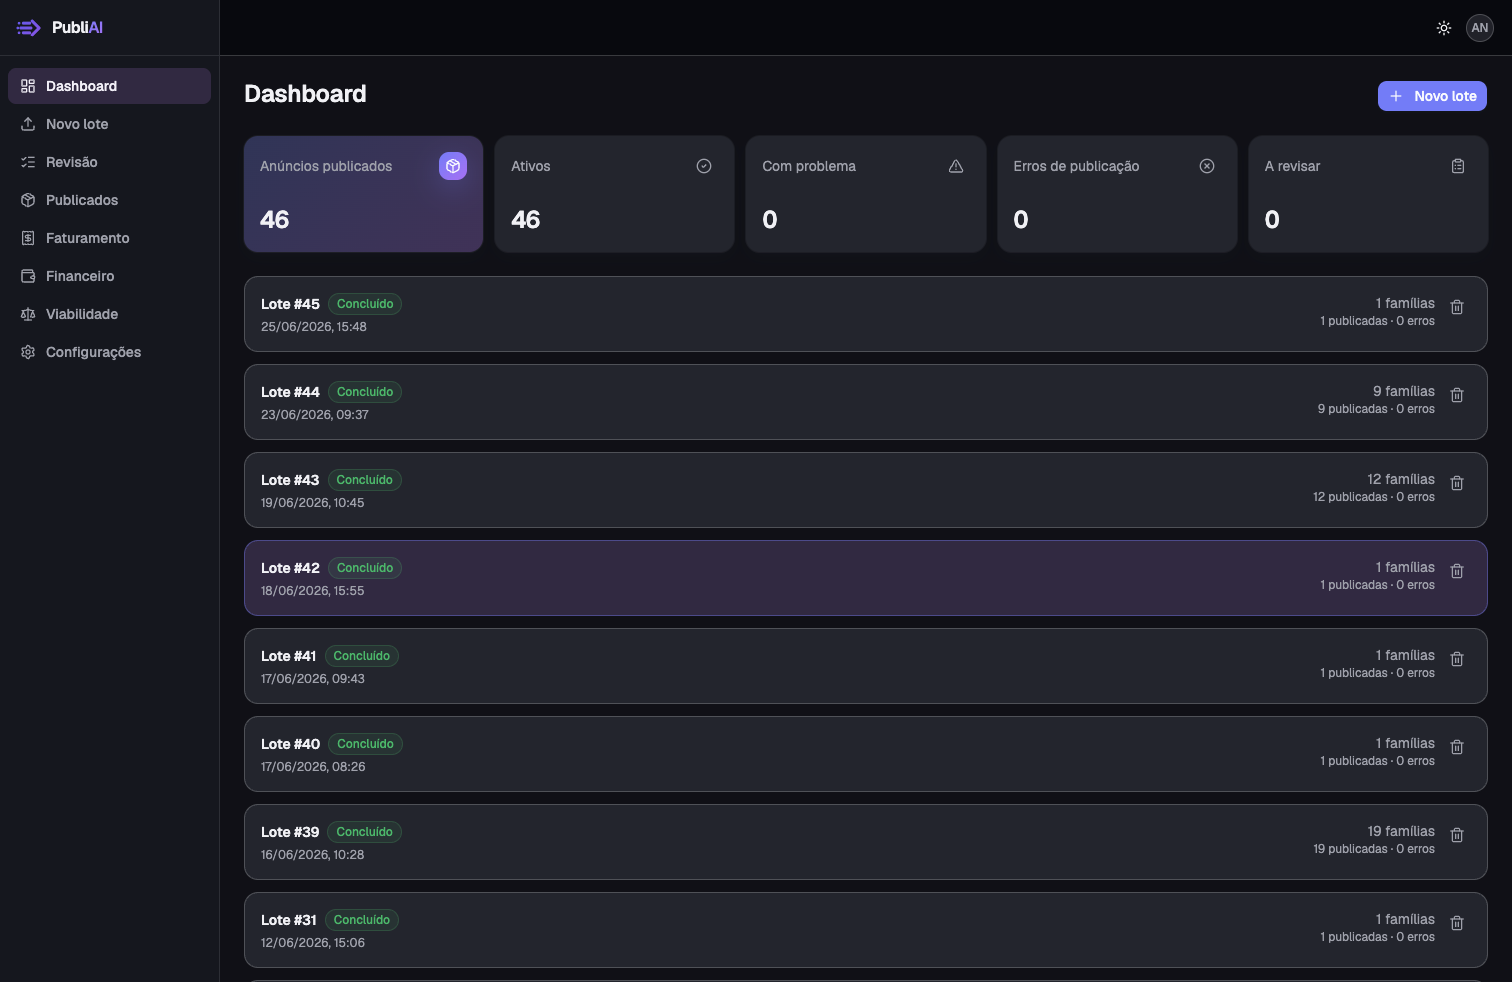
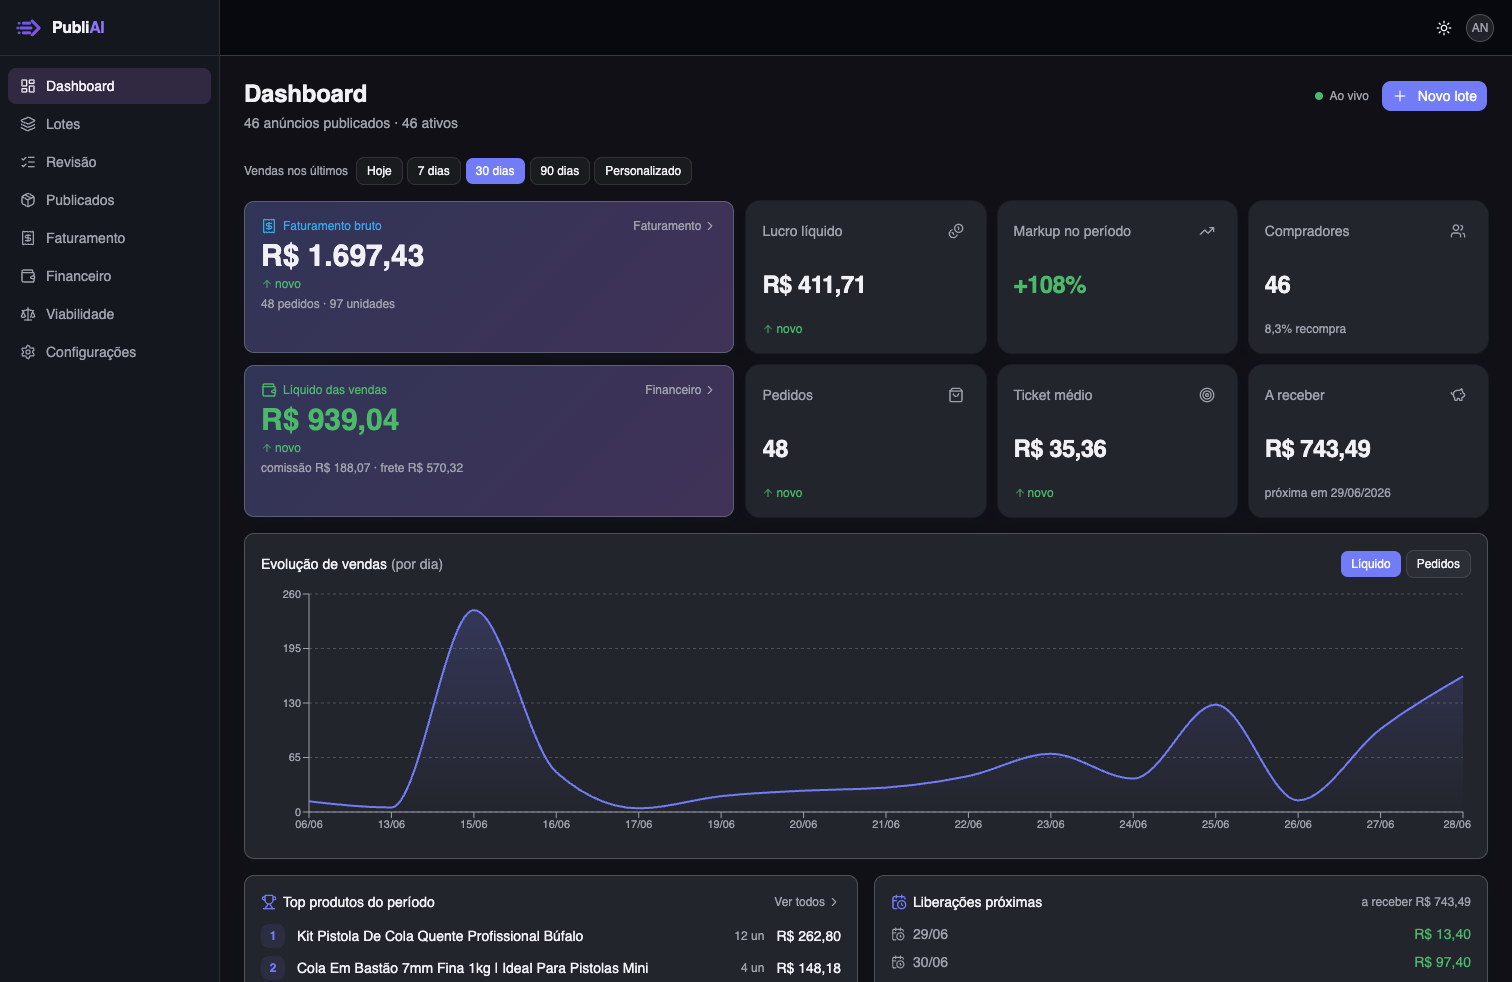
docs(landing): atualiza screenshot do Dashboard na landing
Captura nova do Dashboard atualizado (faturamento bruto, lucro líquido,
markup, líquido com breakdown comissão/frete, gráfico de evolução, top
produtos) substituindo a versão antiga (KPIs simples + lista de lotes).
Ajusta o alt da imagem para refletir o conteúdo atual.

Claude-Session: https://claude.ai/code/session_01ETP5rt5n4BGvUqz3wexnh8

diff --git a/docs/brand/landing/index.html b/docs/brand/landing/index.html
@@ -176,7 +176,7 @@
         <p class="hero-note">Publique em minutos · Revisão humana · Escala multicanal</p>
         <div class="shot">
           <div class="bar"><i></i><i></i><i></i></div>
-          <img src="assets/dashboard.png" alt="Painel do PubliAI com lotes e anúncios publicados" />
+          <img src="assets/dashboard.png" alt="Painel do PubliAI com faturamento, lucro e vendas dos anúncios publicados" />
         </div>
       </div>
     </section>